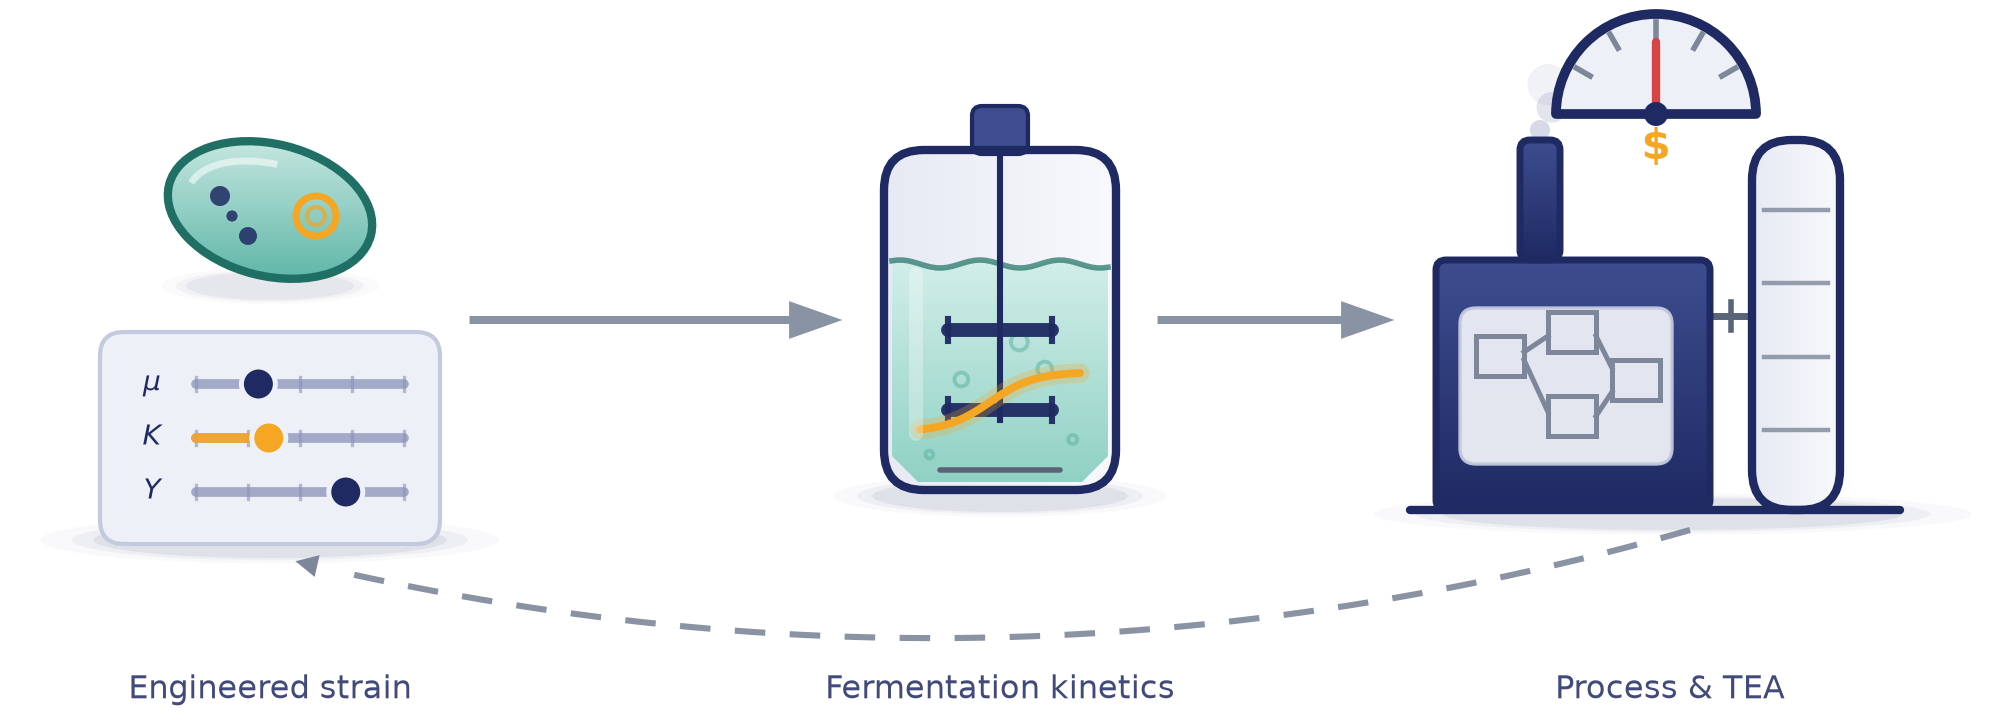
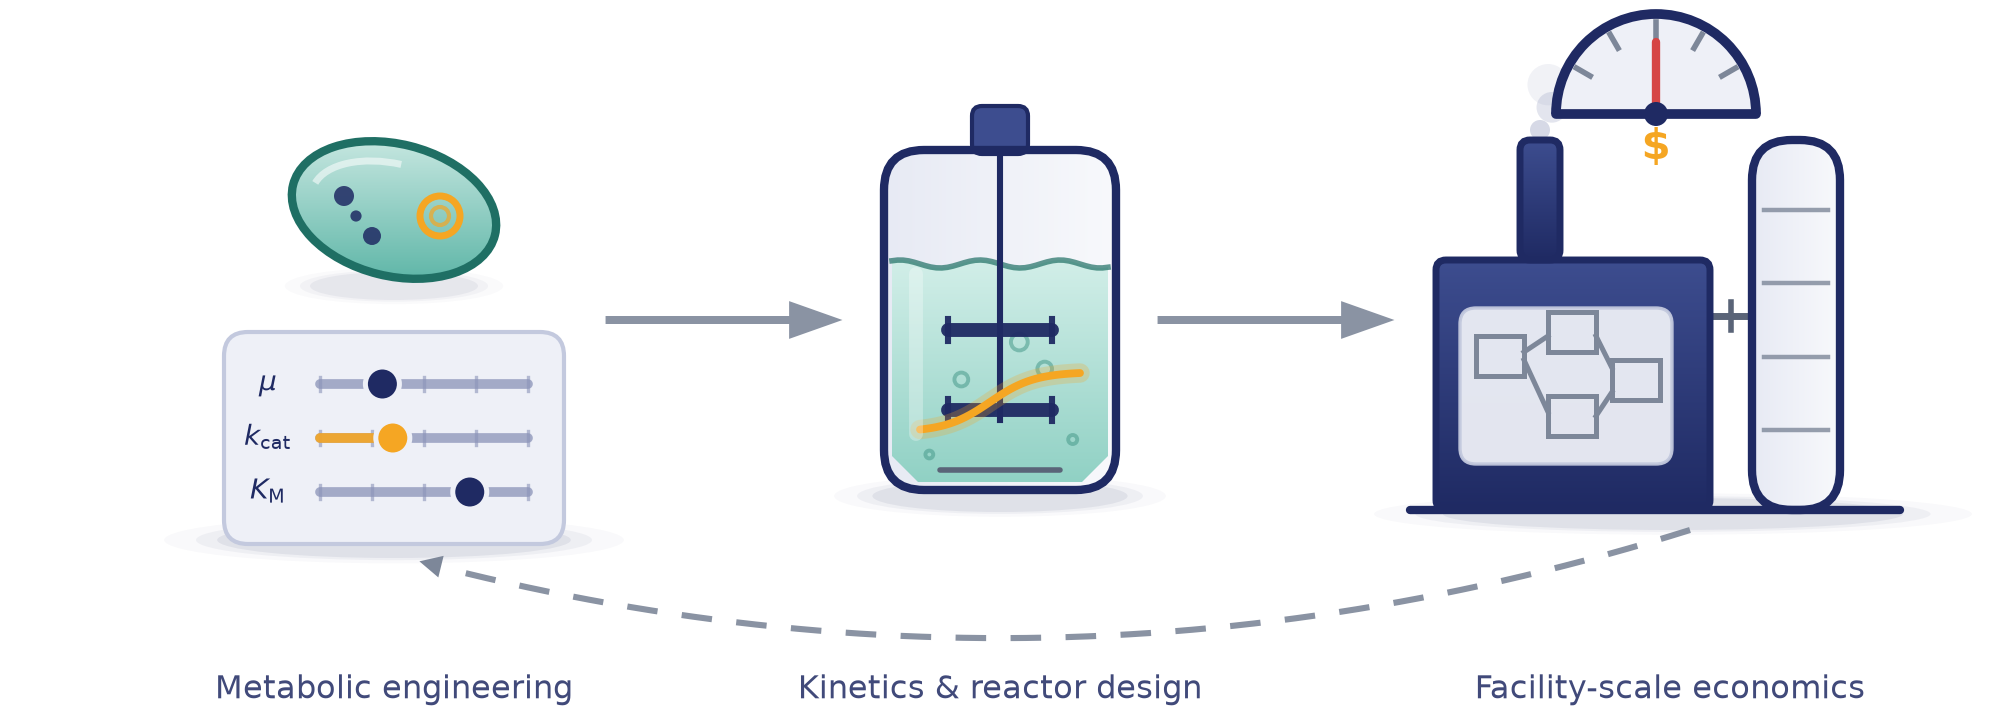
docs(demo): rename the loop stages, equalize their spacing, and retune
Revision wave on the landing-page loop GIF:

* Captions now name the discipline rather than the drawing: 'Metabolic
  engineering', 'Kinetics & reactor design', 'Facility-scale economics'.
* Slider labels become mu / k_cat / K_M with mathtext subscripts, so the
  card reads as actual kinetic parameters.
* The three stages are evenly spaced. Shifting the strain stage right by
  0.62 (card 1.12-2.82, microbe center x 1.97) makes both inter-stage
  gaps 1.60 and both forward arrows 1.24 long, each inset 0.18 from the
  stages it links; the reactor stays dead center at x 5.0 and the plant
  does not move. The feedback arc's control point follows to 5.26 so the
  dashed curve stays symmetric between its new endpoints. The microbe's
  granules and plasmid are now offsets from MICROBE_C instead of absolute
  coordinates, so the body and its interior translate together.
* The light theme's aeration bubbles deepen from #5fb3a3 to #479a8b —
  a step toward teal_edge that lifts them off the pale broth while
  keeping them a quiet supporting hue. Dark is unchanged.

Both GIFs and both reduced-motion stills rebuilt: 2.23 / 1.85 MB, wrap
delta 0.086 / 0.128 against a max adjacent-frame delta of 1.09 / 0.61,
and 'bg' and 'card' still quantize byte-exact in each palette.

diff --git a/docs/_demo_src/make_loop_gif.py b/docs/_demo_src/make_loop_gif.py
@@ -10,15 +10,15 @@ Render the animated "strain-to-TEA" loop GIFs for the docs landing page.
 
 The scene is a captioned three-stage pipeline drawn left to right:
 
-* **Engineered strain** — a teal ovoid microbe with granules and an amber
+* **Metabolic engineering** — a teal ovoid microbe with granules and an amber
   plasmid loop, above a control card of three tick-marked sliders (the
   middle, amber one is the parameter the animation turns).
-* **Fermentation kinetics** — a glass stirred tank: gradient broth with a
+* **Kinetics & reactor design** — a glass stirred tank: gradient broth with a
   waving surface, a sparger streaming rising bubbles, a two-tier Rushton
   impeller spinning in side view, and an amber product curve that boosts
   when the parameter changes.
-* **Process & TEA** — a plant building with vapor wisps drifting off its
-  stack, a cutaway flowsheet panel that lights amber, a trayed
+* **Facility-scale economics** — a plant building with vapor wisps drifting
+  off its stack, a cutaway flowsheet panel that lights amber, a trayed
   distillation column, and a large semicircular $ gauge above.
 
 Forward arrows link the stages and a dashed feedback arc curves back
@@ -83,7 +83,7 @@ THEMES = {
                   steel='#7d8799', steel_dark='#5a6478',
                   accent='#f5a623',
                   mb0='#58b3a4', mb1='#cdeae4', teal_edge='#1f6f64',
-                  broth0='#8ed0c3', broth1='#d3efe9', bubble='#5fb3a3',
+                  broth0='#8ed0c3', broth1='#d3efe9', bubble='#479a8b',
                   red='#d64545', text='#1f2a63', glass_hi='#ffffff',
                   sheen_a=0.30,
                   glass0='#e7eaf4', glass1='#f8f9fc',
@@ -103,22 +103,27 @@ THEMES = {
 
 # %% Scene geometry
 
-# Stage centers: microbe/card ~x 1.35, reactor x 5.0, plant ~x 8.3.
+# Stage centers: microbe/card ~x 1.97, reactor x 5.0, plant ~x 8.3.
+# The three stages are evenly spaced: the strain stage spans x 1.12-2.82,
+# the vessel 4.42-5.58 and the plant block 7.18-, so both inter-stage gaps
+# are 1.60 and the two forward arrows are the same length (1.24), each
+# inset 0.18 from the stage edges it links.
 # Captions sit at y 0.15; the feedback arc dips to ~y 0.45 mid-canvas,
 # clearing the reactor caption below it and the control card above it.
-ARROW1 = ((2.32, 2.00), (4.24, 2.00))
+ARROW1 = ((3.00, 2.00), (4.24, 2.00))
 ARROW2 = ((5.76, 2.00), (7.00, 2.00))
 
 # Feedback arc: quadratic bezier (right to left) below the pipeline.
-FB_P0, FB_P1, FB_P2 = (8.45, 0.95), (4.95, -0.05), (1.45, 0.80)
+FB_P0, FB_P1, FB_P2 = (8.45, 0.95), (5.26, -0.05), (2.07, 0.80)
 
 CAPTION_Y = 0.15
 
-MICROBE_C = (1.35, 2.55)
-CARD = (0.50, 0.88, 1.70, 1.06)          # x, y, w, h
-SLIDER_X0, SLIDER_X1 = 0.98, 2.02
+MICROBE_C = (1.97, 2.55)
+CARD = (1.12, 0.88, 1.70, 1.06)          # x, y, w, h
+SLIDER_X0, SLIDER_X1 = 1.60, 2.64
+SLIDER_LABEL_X = 1.34
 SLIDER_YS = (1.68, 1.41, 1.14)
-SLIDER_LABELS = (r'$\mu$', r'$K$', r'$Y$')
+SLIDER_LABELS = (r'$\mu$', r'$k_{\mathrm{cat}}$', r'$K_{\mathrm{M}}$')
 
 VESSEL = (4.42, 1.15, 1.16, 1.70)   # x, y, w, h; rounded corners 0.20
 LIQ_Y = 2.28                        # nominal broth surface
@@ -250,15 +255,17 @@ def draw_microbe(ax, th, glow):
     # membrane highlight along the upper-left rim
     ax.add_patch(Arc(MICROBE_C, 0.84, 0.46, angle=-14, theta1=95, theta2=175,
                      ec=th['glass_hi'], lw=2.5, alpha=0.55, zorder=3))
-    # granules (quiet navy)
-    for gx, gy, r in ((1.10, 2.62, 0.05), (1.24, 2.42, 0.045),
-                      (1.16, 2.52, 0.028)):
-        ax.add_patch(Circle((gx, gy), r, fc=th['stroke'], ec='none',
+    # granules (quiet navy), placed as offsets from the body center so the
+    # whole microbe translates with MICROBE_C
+    for dx, dy, r in ((-0.25, 0.07, 0.05), (-0.11, -0.13, 0.045),
+                      (-0.19, -0.03, 0.028)):
+        ax.add_patch(Circle((cx + dx, cy + dy), r, fc=th['stroke'], ec='none',
                             alpha=0.85, zorder=3))
     # engineering cue: amber plasmid loop (nested loops = supercoil)
-    ax.add_patch(Circle((1.58, 2.52), 0.10, fc='none', ec=th['accent'],
+    plasmid = (cx + 0.23, cy - 0.03)
+    ax.add_patch(Circle(plasmid, 0.10, fc='none', ec=th['accent'],
                         lw=2.5, zorder=3))
-    ax.add_patch(Circle((1.58, 2.52), 0.045, fc='none', ec=th['accent'],
+    ax.add_patch(Circle(plasmid, 0.045, fc='none', ec=th['accent'],
                         lw=1.5, alpha=0.7, zorder=3))
 
 
@@ -277,7 +284,7 @@ def draw_control_card(ax, th, frac):
     knob_fracs = (0.30, frac, 0.72)
     for yy, lab, kf, animated in zip(SLIDER_YS, SLIDER_LABELS, knob_fracs,
                                      (False, True, False)):
-        ax.text(0.76, yy, lab, ha='center', va='center', fontsize=10,
+        ax.text(SLIDER_LABEL_X, yy, lab, ha='center', va='center', fontsize=10,
                 color=th['text'], zorder=3)
         ax.plot([SLIDER_X0, SLIDER_X1], [yy, yy], color=th['peri'], lw=3.5,
                 solid_capstyle='round', alpha=0.75, zorder=3)
@@ -536,9 +543,9 @@ def draw_comet(ax, th, path_fn, s):
 
 def draw_scene(ax, th, state):
     t = state['t']
-    draw_caption(ax, th, 1.35, 'Engineered strain')
-    draw_caption(ax, th, 5.0, 'Fermentation kinetics')
-    draw_caption(ax, th, 8.35, 'Process & TEA')
+    draw_caption(ax, th, MICROBE_C[0], 'Metabolic engineering')
+    draw_caption(ax, th, 5.0, 'Kinetics & reactor design')
+    draw_caption(ax, th, 8.35, 'Facility-scale economics')
     draw_feedback_arrow(ax, th)
     draw_arrow(ax, th, *ARROW1)
     draw_arrow(ax, th, *ARROW2)
